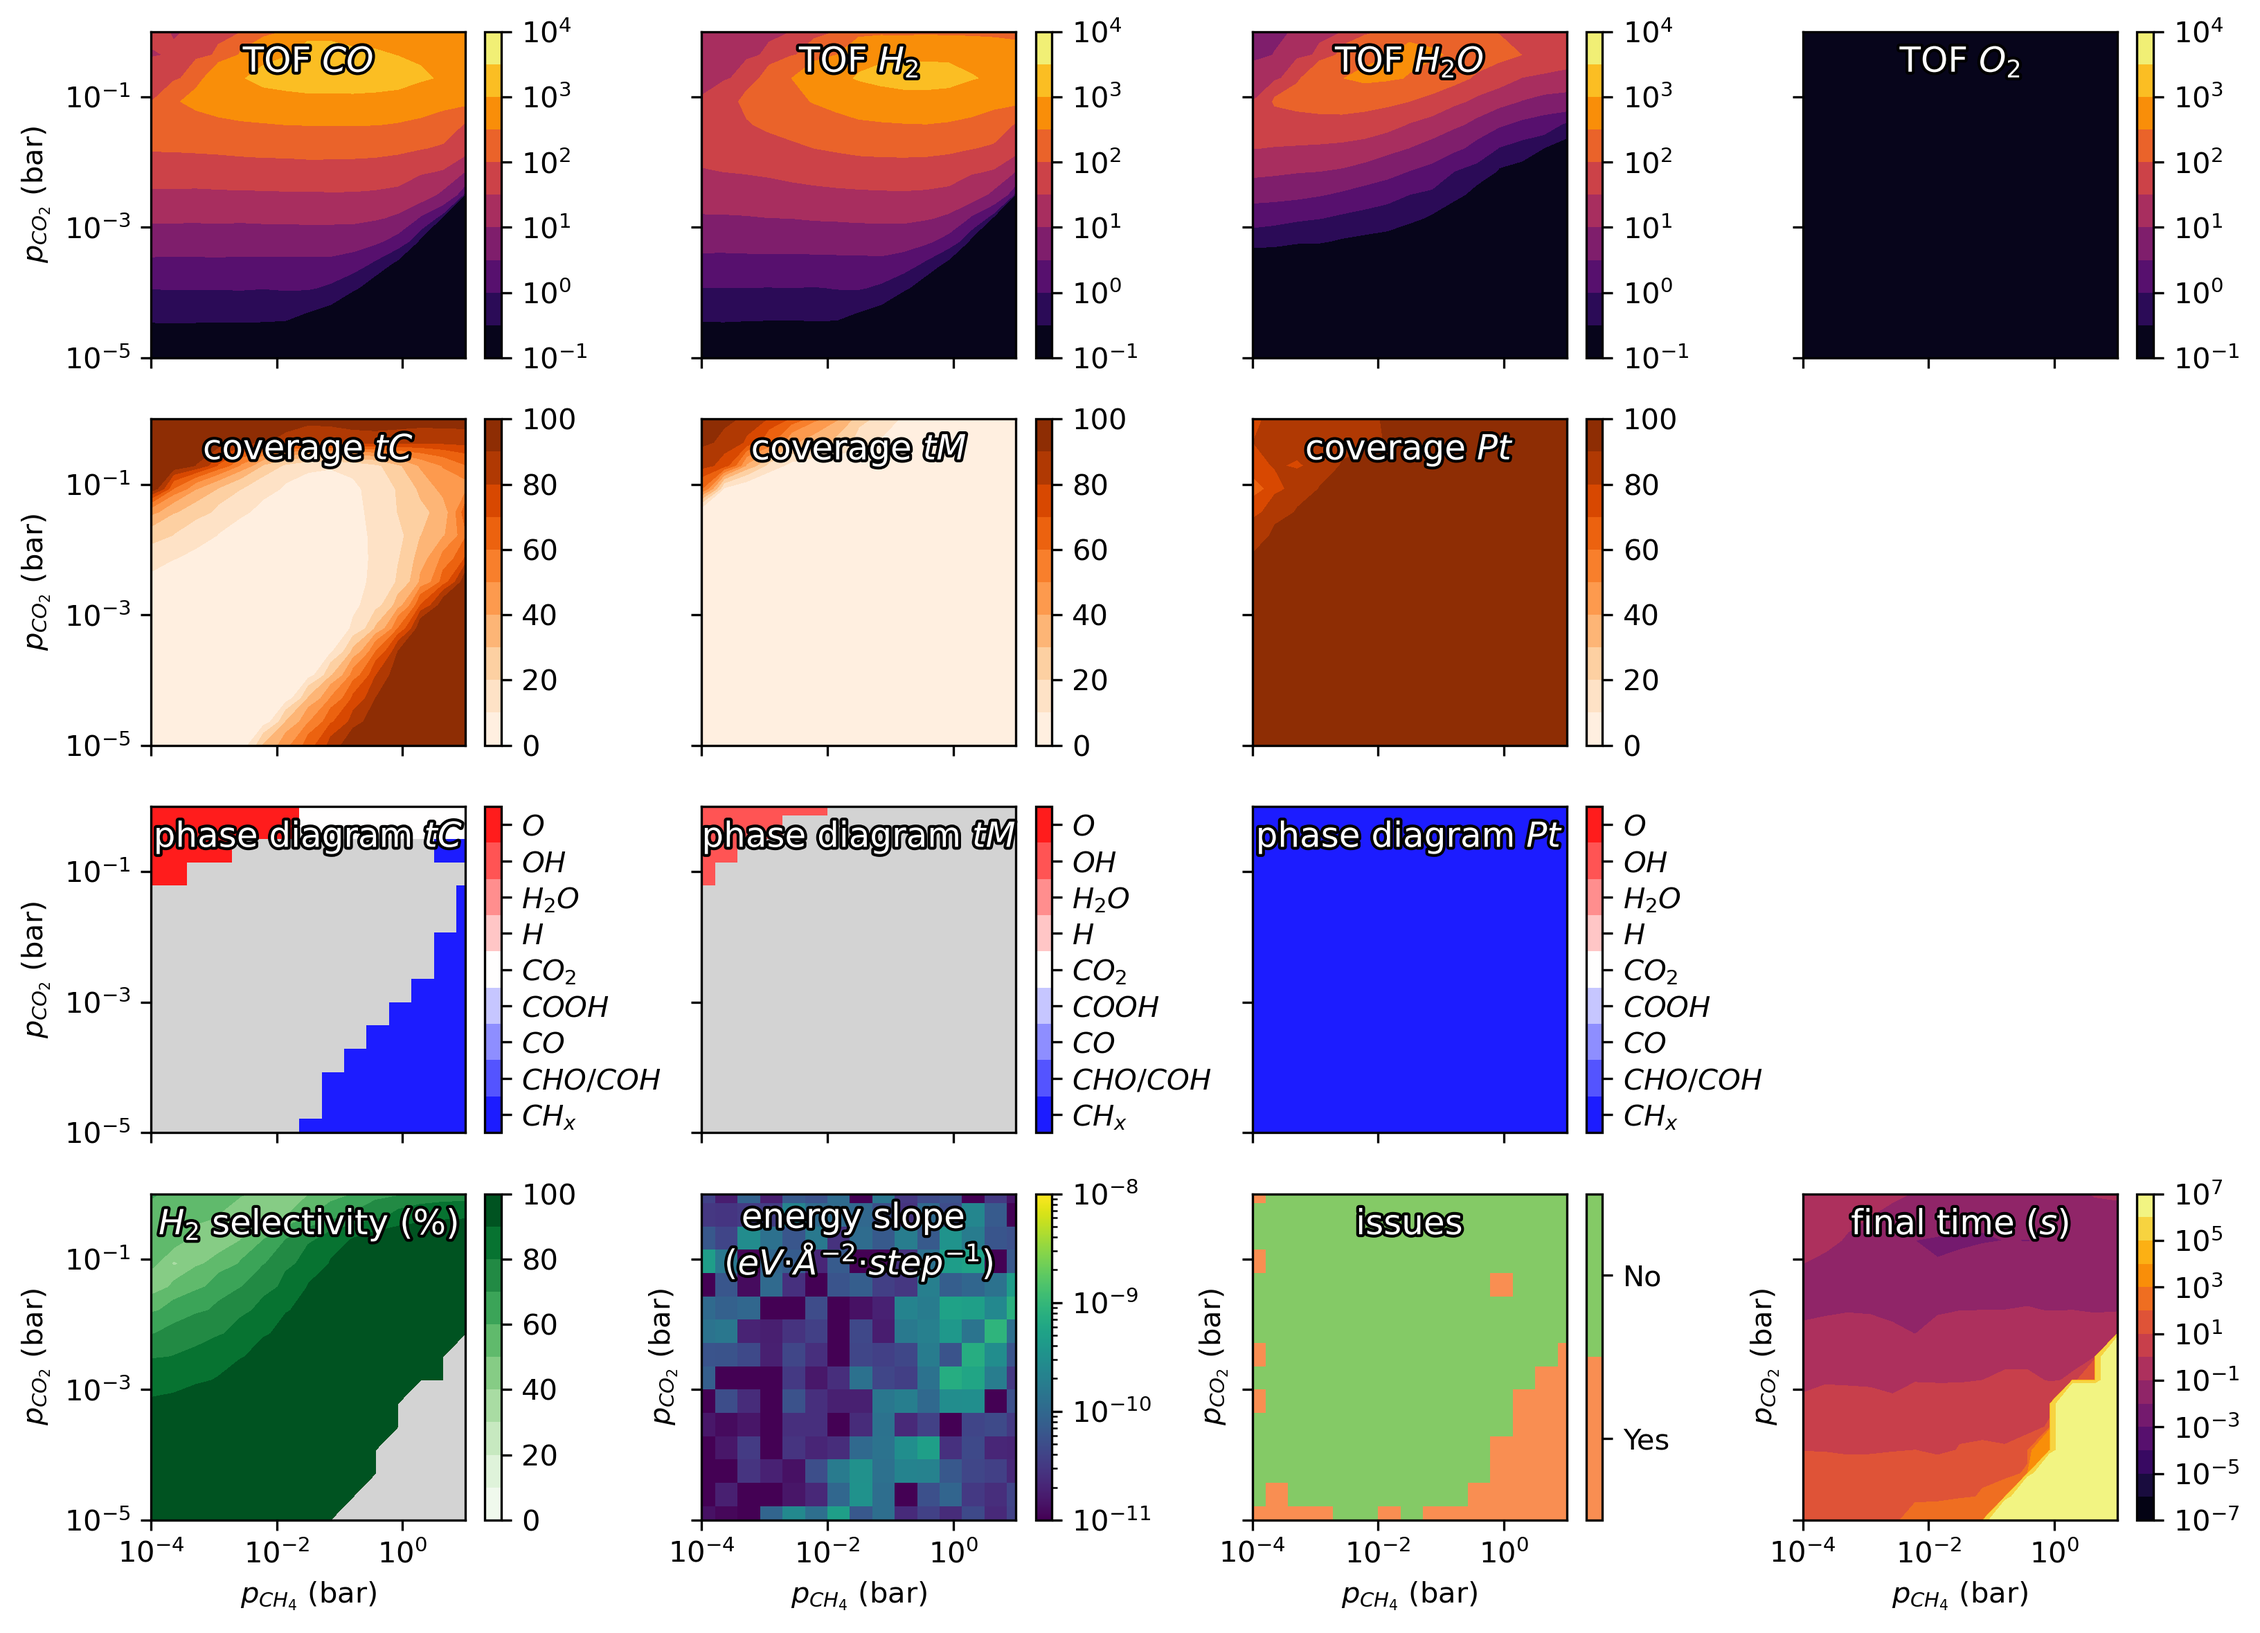
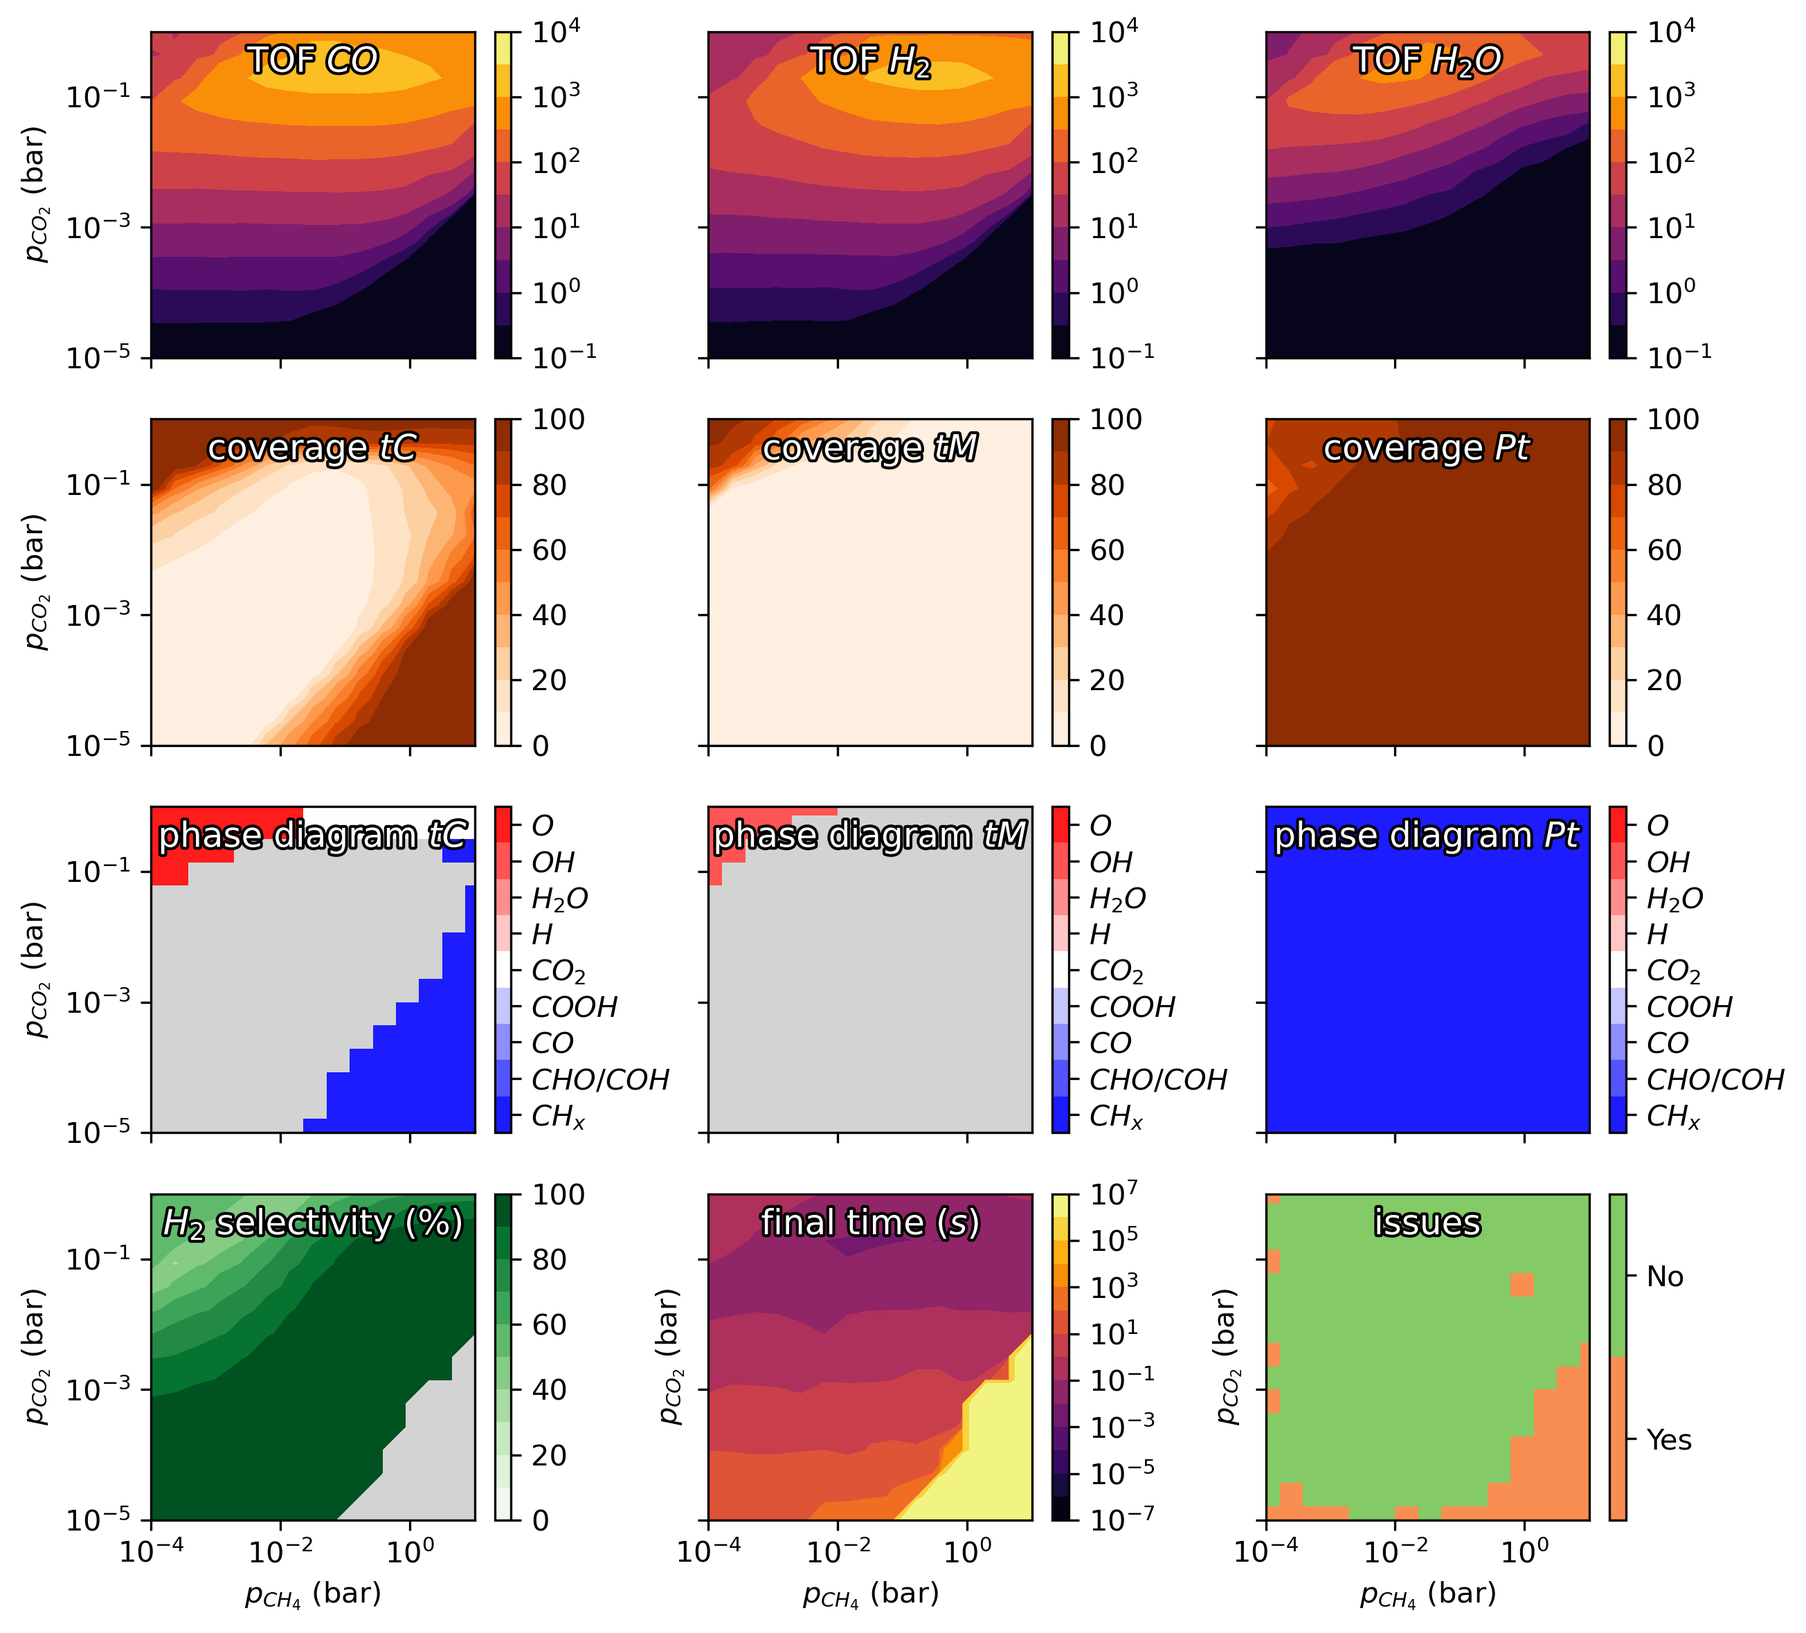
Updated documentation.

diff --git a/examples/DRM_on_PtHfC/multiple_heatmaps.py b/examples/DRM_on_PtHfC/multiple_heatmaps.py
@@ -19,9 +19,9 @@ auto_title = True
 show_points = False
 show_colorbar = True
 
-fig, axs = plt.subplots(4, 4, figsize=(11, 8), sharey='row', sharex='col')
+fig, axs = plt.subplots(4, 3, figsize=(8.8, 8), sharey='row', sharex='col')
 
-for n, product in enumerate(['CO', 'H2', 'H2O', 'O2']):
+for n, product in enumerate(['CO', 'H2', 'H2O']):
     plot_heatmap(
         ax=axs[0, n], scan_path=scan_path, x=x_variable, y=y_variable, z="tof",
         gas_spec=product, min_molec=min_molec_tof,
@@ -63,29 +63,20 @@ plot_heatmap(
     auto_title=auto_title, show_points=show_points, show_colorbar=show_colorbar)
 
 plot_heatmap(
-    ax=axs[3, 1], scan_path=scan_path, x=x_variable, y=y_variable, z='energy_slope',
-    analysis_range=analysis_range, range_type='nevents',
-    auto_title=auto_title, show_points=show_points, show_colorbar=show_colorbar)
+    ax=axs[3, 1], scan_path=scan_path, x=x_variable, y=y_variable, z='final_time',
+    levels=np.logspace(-7, 7, num=15), auto_title=auto_title, show_points=show_points, show_colorbar=show_colorbar)
 
 plot_heatmap(
     ax=axs[3, 2], scan_path=scan_path, x=x_variable, y=y_variable, z='issues',
     verbose=True, auto_title=auto_title, show_points=show_points, show_colorbar=show_colorbar)
 
-plot_heatmap(
-    ax=axs[3, 3], scan_path=scan_path, x=x_variable, y=y_variable, z='final_time',
-    levels=np.logspace(-7, 7, num=15), auto_title=auto_title, show_points=show_points, show_colorbar=show_colorbar)
-
 # Hide axis labels of intermediate subplots
 for i in range(3):
-    for j in range(4):
+    for j in range(3):
         axs[i, j].set_xlabel('')
 for i in range(3):
-    for j in range(1, 4):
+    for j in range(1, 3):
         axs[i, j].set_ylabel('')
-
-# Hide blank subplots
-axs[1, 3].axis('off')
-axs[2, 3].axis('off')
 
 plt.tight_layout()
 plt.savefig('multiple_heatmaps.png', dpi=300, bbox_inches='tight', transparent=False)

diff --git a/docs/source/plotting_results.md b/docs/source/plotting_results.md
@@ -567,9 +567,9 @@ auto_title = True
 show_points = False
 show_colorbar = True
 
-fig, axs = plt.subplots(4, 4, figsize=(11, 8), sharey='row', sharex='col')
+fig, axs = plt.subplots(4, 3, figsize=(8.8, 8), sharey='row', sharex='col')
 
-for n, product in enumerate(['CO', 'H2', 'H2O', 'O2']):
+for n, product in enumerate(['CO', 'H2', 'H2O']):
     plot_heatmap(
         ax=axs[0, n], scan_path=scan_path, x=x_variable, y=y_variable, z="tof",
         gas_spec=product, min_molec=min_molec_tof,
@@ -611,29 +611,20 @@ plot_heatmap(
     auto_title=auto_title, show_points=show_points, show_colorbar=show_colorbar)
 
 plot_heatmap(
-    ax=axs[3, 1], scan_path=scan_path, x=x_variable, y=y_variable, z='energy_slope',
-    analysis_range=analysis_range, range_type='nevents',
-    auto_title=auto_title, show_points=show_points, show_colorbar=show_colorbar)
+    ax=axs[3, 1], scan_path=scan_path, x=x_variable, y=y_variable, z='final_time',
+    levels=np.logspace(-7, 7, num=15), auto_title=auto_title, show_points=show_points, show_colorbar=show_colorbar)
 
 plot_heatmap(
     ax=axs[3, 2], scan_path=scan_path, x=x_variable, y=y_variable, z='issues',
     verbose=True, auto_title=auto_title, show_points=show_points, show_colorbar=show_colorbar)
 
-plot_heatmap(
-    ax=axs[3, 3], scan_path=scan_path, x=x_variable, y=y_variable, z='final_time',
-    levels=np.logspace(-7, 7, num=15), auto_title=auto_title, show_points=show_points, show_colorbar=show_colorbar)
-
 # Hide axis labels of intermediate subplots
 for i in range(3):
-    for j in range(4):
+    for j in range(3):
         axs[i, j].set_xlabel('')
 for i in range(3):
-    for j in range(1, 4):
+    for j in range(1, 3):
         axs[i, j].set_ylabel('')
-
-# Hide blank subplots
-axs[1, 3].axis('off')
-axs[2, 3].axis('off')
 
 plt.tight_layout()
 plt.savefig('multiple_heatmaps.png', dpi=300, bbox_inches='tight', transparent=False)
